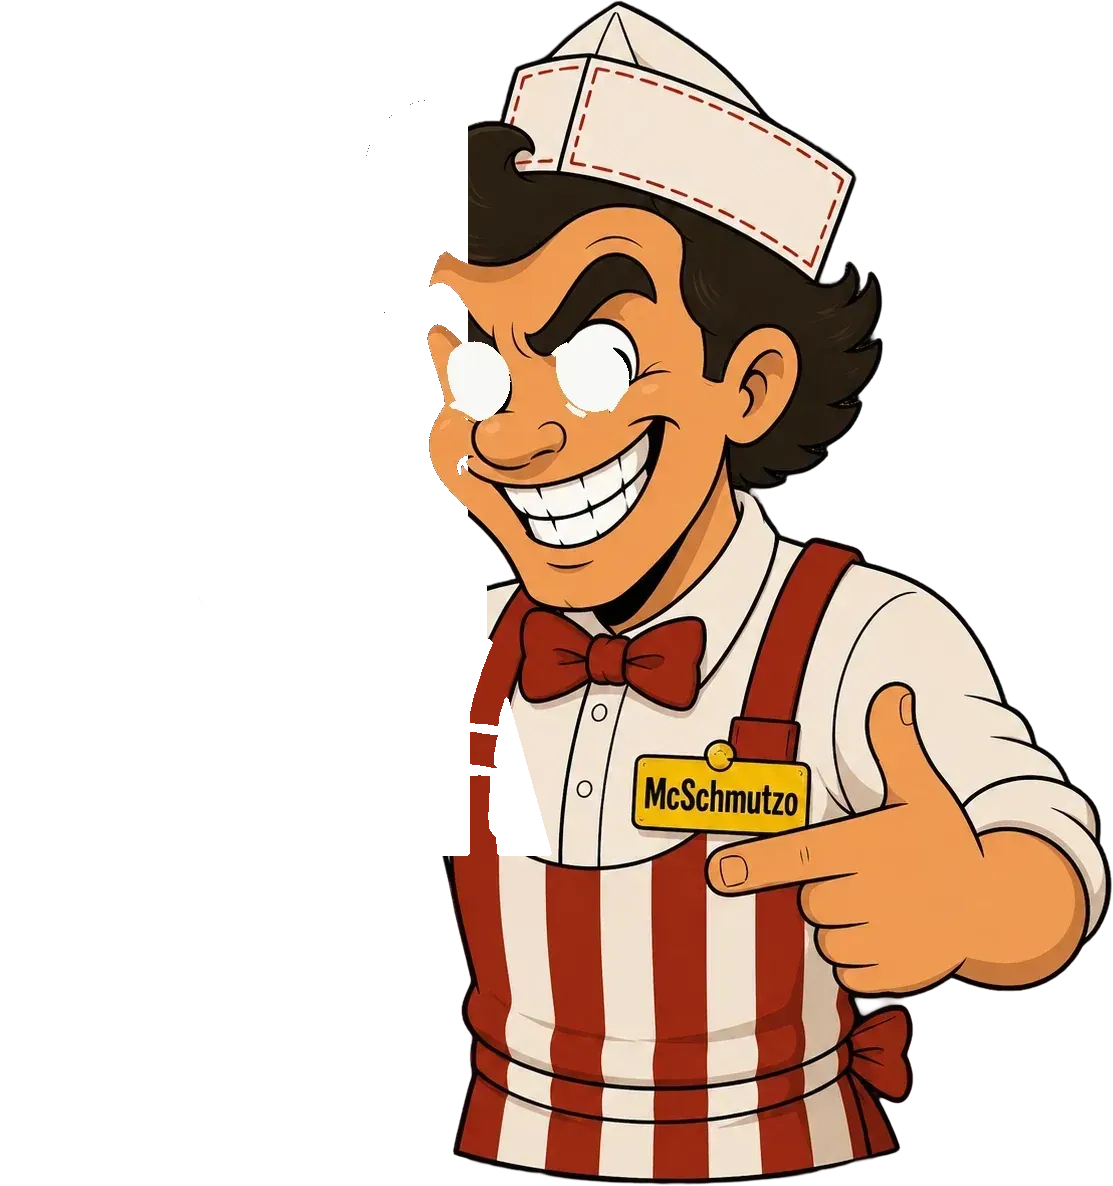
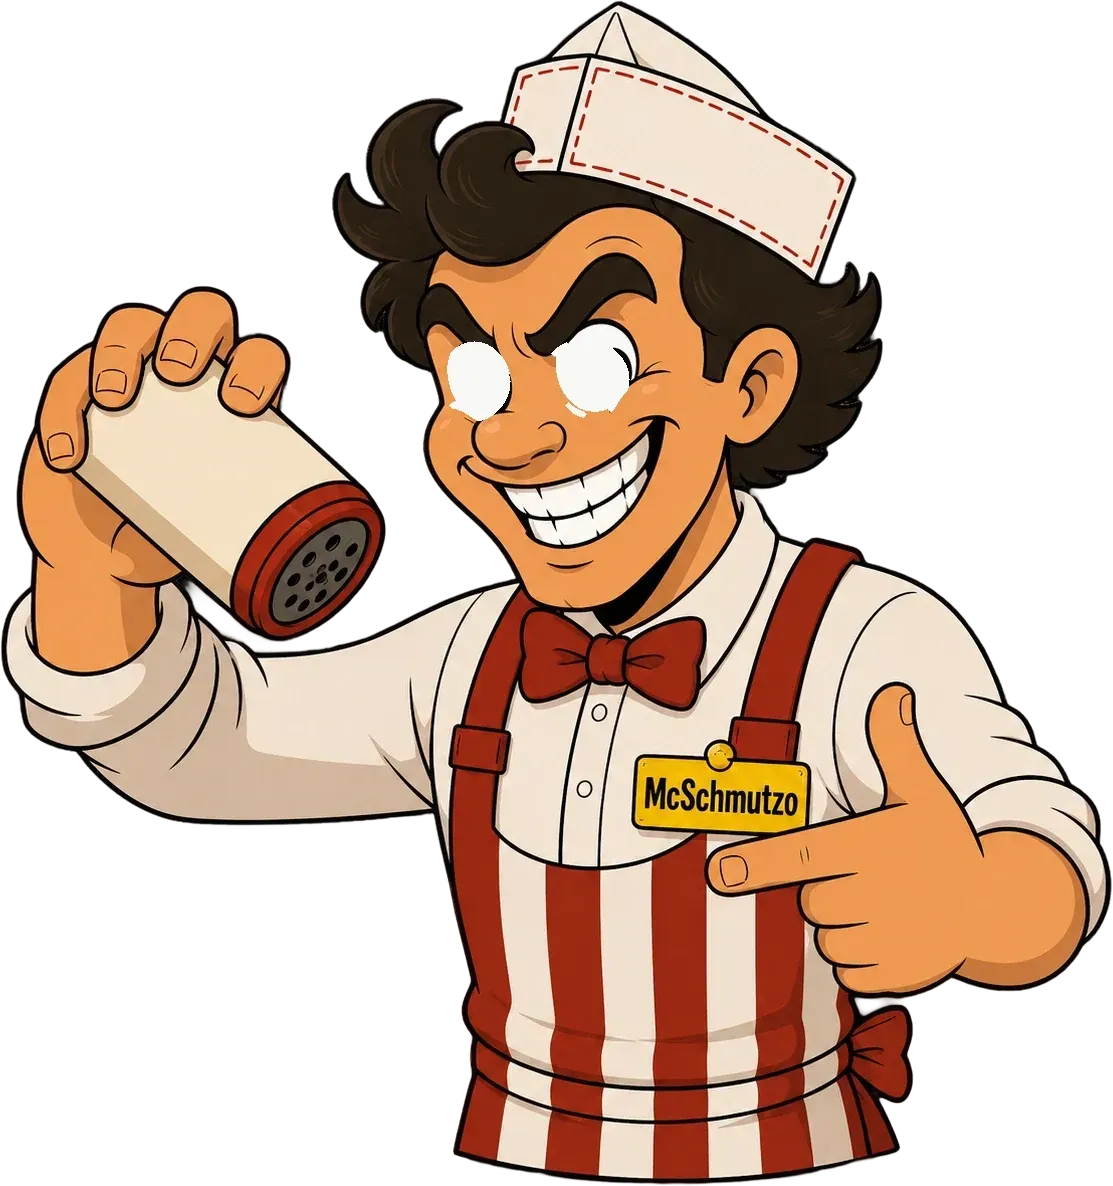
fix(mcschmutzo): salting chef arm seamless on a FULL base; tighter eye glance
The arm-subtracted base left a transparent hole, so the flick detached the arm
and revealed the black oven behind it (and the subtraction had clipped a bit of
the face). Follow the splash chef's approach instead: keep the FULL base (arm
present at rest, eyes cut + sclera cleaned — no hole), overlay a clean copy of
the arm, and flick it only ~1.6° about the shoulder. Nothing behind the arm is
transparent, so it can never detach or show black, and the tiny angle keeps the
overlaid arm from doubling against the resting one (verified at the extreme: no
black, no ghost, face complete). Also halve the pupil glance so the eyes stay
well inside the white.

Changed region(s): [[0.0, 0.2184, 0.4888, 0.7487], [0.2749, 0.0624, 0.4277, 0.4056], [0.3971, 0.4056, 0.4277, 0.4368]]

diff --git a/apps/mcschmutzo/src/components/SpecialMascot.svelte b/apps/mcschmutzo/src/components/SpecialMascot.svelte
@@ -52,13 +52,13 @@
 		mascotIdle(elapsed, cx, guyY, guyWidth, guyHeight, { sway: 0, breathe: 0.005, bob: 0.004 }),
 	);
 
-	// The WHOLE arm (hand+shaker+forearm+upper-arm to the shoulder — extracted clean from the art, the
-	// base has exactly that region removed) FLICKS about the SHOULDER SOCKET. Pivoting at the socket
-	// keeps the arm attached to the body (the socket point barely moves, so the body stays covered)
-	// while the forearm+hand swing out over the background — no cut at the shoulder. The salt releases
-	// on the down-flick so arm + falling salt read as one action.
+	// The arm (a clean full-frame copy of the hand+shaker+arm) is OVERLAID on the FULL base (the base
+	// still contains the arm at rest — no hole is cut) and flicks a hair about the shoulder socket. Like
+	// the splash chef's patched base, nothing behind the arm is transparent, so the flick can never
+	// detach the arm or reveal the black oven behind it; the tiny angle keeps the overlaid arm from
+	// showing any double edge against the resting one. Salt releases on the down-flick.
 	const SHAKE_PERIOD = 560; // ms per flick
-	const SHAKE_AMP = 0.048; // rad (~2.7°) about the shoulder — visible but seamless flick
+	const SHAKE_AMP = 0.028; // rad (~1.6°) — small flick; the base is full (no hole) so no black is ever revealed
 	const shakeP = $derived((elapsed % SHAKE_PERIOD) / SHAKE_PERIOD);
 	const armAngle = $derived(SHAKE_AMP * Math.sin(2 * Math.PI * shakeP)); // + = flick down (cap dips)
 

diff --git a/apps/mcschmutzo/src/components/AnimatedGuy.svelte b/apps/mcschmutzo/src/components/AnimatedGuy.svelte
@@ -59,10 +59,10 @@
 	const KF = [
 		{ t: 0.0, x: 0, y: 0 },
 		{ t: 0.4, x: 0, y: 0 },
-		{ t: 0.45, x: 0.009, y: -0.004 }, // quick glance to his left/up (small — stays in the sclera)
-		{ t: 0.66, x: 0.009, y: -0.004 },
-		{ t: 0.71, x: 0.005, y: 0.006 }, // then down a touch
-		{ t: 0.9, x: 0.005, y: 0.006 },
+		{ t: 0.45, x: 0.0045, y: -0.002 }, // quick glance to his left/up (tiny — pupils stay well inside the sclera)
+		{ t: 0.66, x: 0.0045, y: -0.002 },
+		{ t: 0.71, x: 0.0025, y: 0.003 }, // then down a touch
+		{ t: 0.9, x: 0.0025, y: 0.003 },
 		{ t: 0.95, x: 0, y: 0 },
 		{ t: 1.0, x: 0, y: 0 },
 	];
